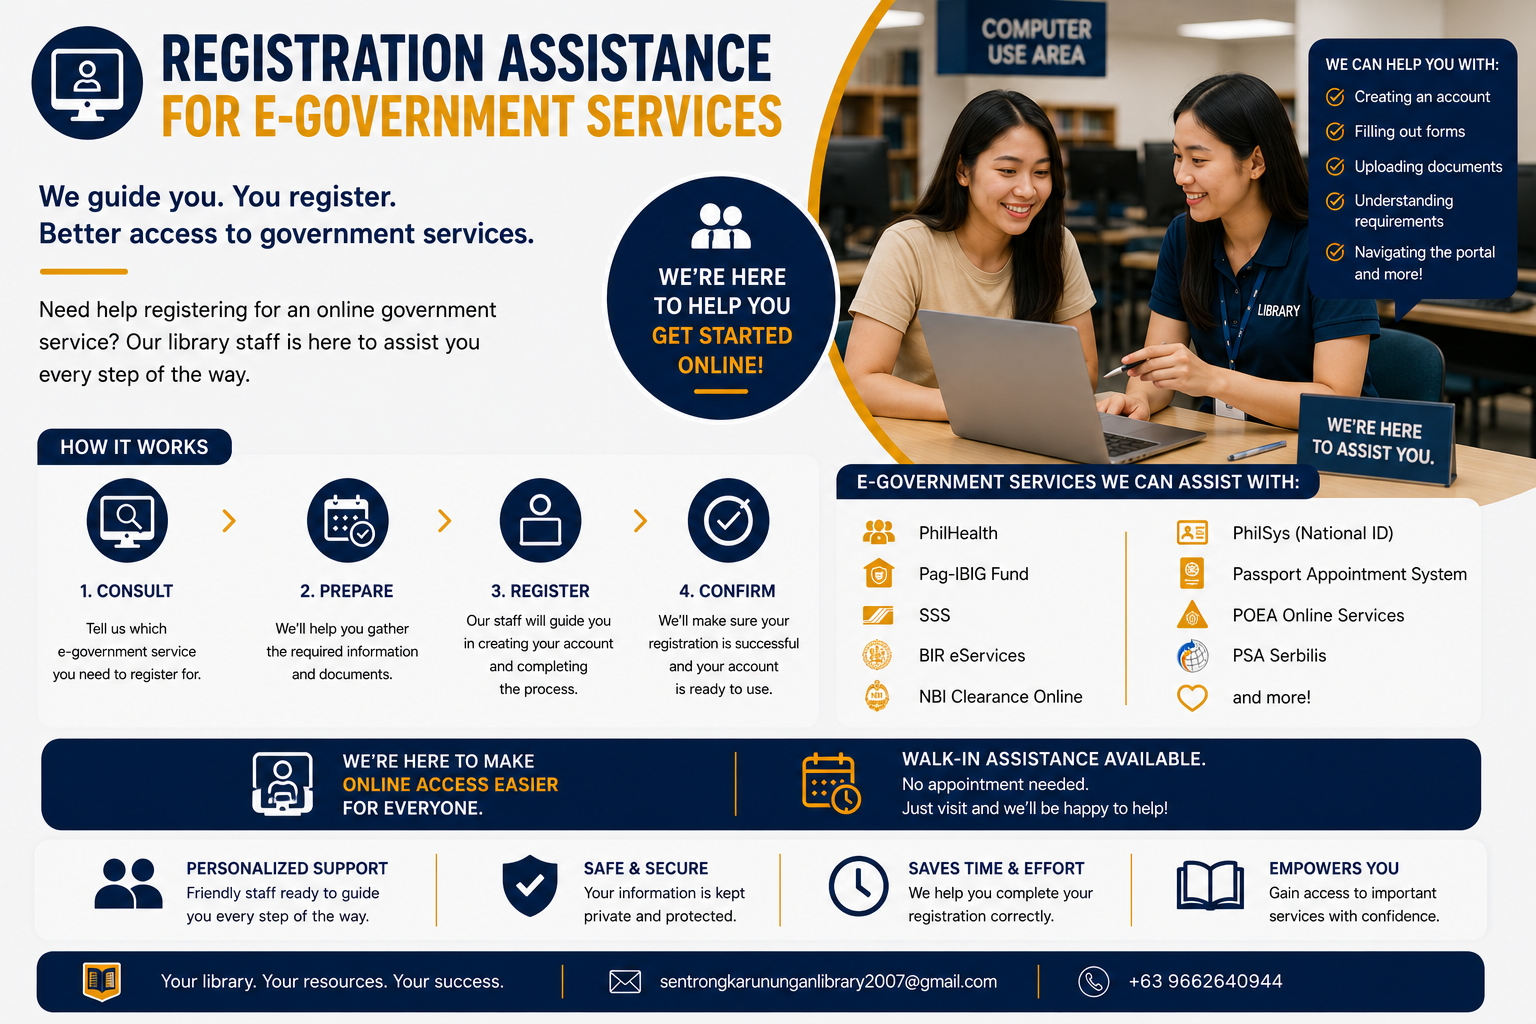
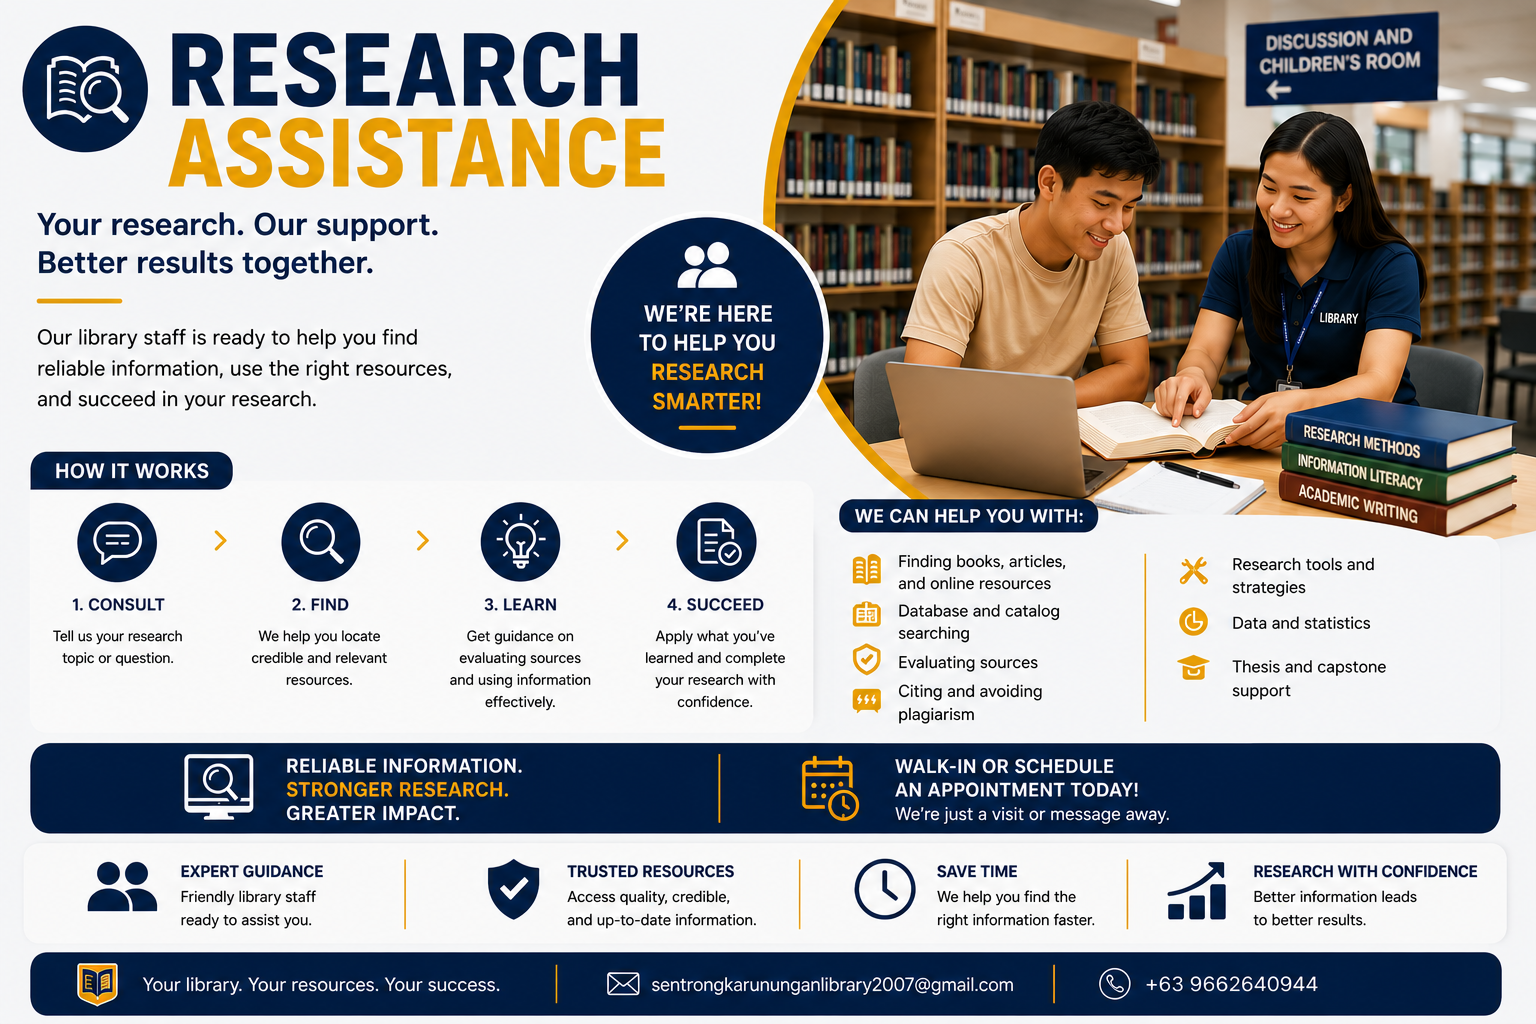
added updated

diff --git a/src/components/ServicesComponents.vue b/src/components/ServicesComponents.vue
@@ -167,7 +167,7 @@ const services = [
       'Book Reservation allows users to reserve available library materials for pickup at Sentro ng Karunungan Library.',
     image: services1,
     qrCode: qr1,
-    googleForm: 'https://forms.gle/YOUR_FORM_LINK',
+    googleForm: 'https://forms.gle/8Pv7CjuEsenUxD949',
   },
   {
     id: 2,
@@ -179,7 +179,7 @@ const services = [
       'Discussion Room Reservation is available for users who need a quiet space for study, collaboration, and group learning.',
     image: services2,
     qrCode: qr2,
-    googleForm: 'https://forms.gle/YOUR_FORM_LINK',
+    googleForm: 'https://forms.gle/71qFqBog9nXNniSL9',
   },
   {
     id: 3,
@@ -191,7 +191,7 @@ const services = [
       'Online Document Delivery Service helps researchers access digital materials such as articles, chapters, and other academic resources.',
     image: services3,
     qrCode: qr3,
-    googleForm: 'https://forms.gle/YOUR_FORM_LINK',
+    googleForm: 'https://forms.gle/R4QgNyzmC4SEDH7CA',
   },
   {
     id: 4,
@@ -203,7 +203,7 @@ const services = [
       'Research Assistance provides support in locating relevant resources, citations, and information for academic and personal research.',
     image: services4,
     qrCode: qr4,
-    googleForm: 'https://forms.gle/YOUR_FORM_LINK',
+    googleForm: 'https://forms.gle/StEARAwpw2aG9Z8Y7',
   },
   {
     id: 5,
@@ -215,43 +215,43 @@ const services = [
       'E-Government Registration Assistance supports users who need help accessing and registering for selected online government services.',
     image: services5,
     qrCode: qr5,
-    googleForm: 'https://forms.gle/YOUR_FORM_LINK',
+    googleForm: 'https://forms.gle/Yn3FfcDmgiPuHzhs8',
   },
   {
     id: 6,
-    title: 'Free Lamination Service',
-    icon: 'bi bi-card-heading',
+    title: 'Storytelling / Film Showing / Arts & Crafts Reservation',
+    icon: 'bi bi-easel-fill',
     description:
-      'Avail free lamination service for selected IDs, cards, certificates, and important documents.',
+      'Reserve library spaces for storytelling sessions, film showings, arts and crafts activities, and other educational community programs.',
     modalText:
-      'Free Lamination Service helps preserve selected personal documents, IDs, cards, and certificates.',
+      'Storytelling / Film Showing / Arts & Crafts Reservation allows schools, organizations, and community groups to reserve designated library spaces for educational, cultural, and creative activities including storytelling programs, film viewing sessions, arts workshops, and interactive learning events.',
     image: services6,
     qrCode: qr6,
-    googleForm: 'https://forms.gle/YOUR_FORM_LINK',
+    googleForm: 'https://forms.gle/cALwGPdzp1MXjgLq9',
   },
   {
     id: 7,
+    title: 'Free Lamination Service',
+    icon: 'bi bi-card-heading',
+    description:
+      'Free lamination service for IDs, educational materials, school projects, and important learning documents.',
+    modalText:
+      'Free Lamination Services help library users preserve and protect important documents such as IDs, educational materials, certificates, visual aids, and school projects through quality lamination support provided by the library.',
+    image: services7,
+    qrCode: qr7,
+    googleForm: 'https://forms.gle/C2uWpfz3bw5x3skt6',
+  },
+  {
+    id: 8,
     title: 'Free Tutorial for Children',
     icon: 'bi bi-mortarboard-fill',
     description:
       'Free learning support for children in reading, writing, counting, arts, crafts, and computer basics.',
     modalText:
       'Free Tutorial for Children supports young learners through basic reading, writing, counting, creativity, and computer literacy activities.',
-    image: services7,
-    qrCode: qr7,
-    googleForm: 'https://forms.gle/YOUR_FORM_LINK',
-  },
-  {
-    id: 8,
-    title: 'Library Tour',
-    icon: 'bi bi-building-fill',
-    description:
-      'Explore the library spaces, collections, services, and learning areas through a guided tour.',
-    modalText:
-      'Library Tour introduces visitors to the library facilities, available collections, services, and community learning spaces.',
     image: services8,
     qrCode: qr8,
-    googleForm: 'https://forms.gle/YOUR_FORM_LINK',
+    googleForm: 'https://forms.gle/3QferQsqnUrSY48u6',
   },
 ]
 

diff --git a/src/components/AppFooter.vue b/src/components/AppFooter.vue
@@ -1,7 +1,96 @@
 <script setup>
+import { ref, onMounted } from 'vue'
 import sklLogo from '@/assets/images/SKLlogo.png'
 
+
 const currentYear = new Date().getFullYear()
+
+const visitors = ref({
+  today: 0,
+  yesterday: 0,
+  last7Days: 0,
+  last30Days: 0,
+  thisMonth: 0,
+  thisYear: 0,
+  total: 0,
+})
+
+onMounted(() => {
+
+  const today = new Date().toISOString().split('T')[0]
+
+  let stats = JSON.parse(localStorage.getItem('visitorStats'))
+
+  if (!stats) {
+    stats = {
+      dates: {},
+      total: 0,
+    }
+  }
+
+  // ADD TODAY VISIT
+  stats.dates[today] = (stats.dates[today] || 0) + 1
+  stats.total += 1
+
+  localStorage.setItem(
+    'visitorStats',
+    JSON.stringify(stats)
+  )
+
+  const dates = stats.dates
+
+  // TODAY
+  visitors.value.today = dates[today] || 0
+
+  // YESTERDAY
+  const yesterdayDate = new Date()
+  yesterdayDate.setDate(yesterdayDate.getDate() - 1)
+
+  const yesterday =
+    yesterdayDate.toISOString().split('T')[0]
+
+  visitors.value.yesterday =
+    dates[yesterday] || 0
+
+  // LAST 7 / 30 DAYS
+  let last7 = 0
+  let last30 = 0
+  let monthTotal = 0
+  let yearTotal = 0
+
+  const now = new Date()
+
+  Object.entries(dates).forEach(([date, count]) => {
+
+    const d = new Date(date)
+
+    const diff =
+      (now - d) / (1000 * 60 * 60 * 24)
+
+    if (diff <= 7) last7 += count
+
+    if (diff <= 30) last30 += count
+
+    if (
+      d.getMonth() === now.getMonth() &&
+      d.getFullYear() === now.getFullYear()
+    ) {
+      monthTotal += count
+    }
+
+    if (
+      d.getFullYear() === now.getFullYear()
+    ) {
+      yearTotal += count
+    }
+  })
+
+  visitors.value.last7Days = last7
+  visitors.value.last30Days = last30
+  visitors.value.thisMonth = monthTotal
+  visitors.value.thisYear = yearTotal
+  visitors.value.total = stats.total
+})
 </script>
 
 <template>
@@ -49,15 +138,17 @@ const currentYear = new Date().getFullYear()
           </div>
           <!-- VISITORS -->
           <div class="col-lg-3">
-            <div class="footer-title">Offsite Visitors Count</div>
+            <div class="footer-title">
+              Offsite Visitors Count
+            </div>
             <ul class="visitors p-0 m-0">
-              <li>📘 Users Today: <strong>14</strong></li>
-              <li>📘 Users Yesterday: <strong>21</strong></li>
-              <li>📘 Users Last 7 Days: <strong>104</strong></li>
-              <li>📘 Users Last 30 Days: <strong>386</strong></li>
-              <li>📘 Users This Month: <strong>752</strong></li>
-              <li>📘 Users This Year: <strong>5,912</strong></li>
-              <li>📘 Total Users: <strong>28,502</strong></li>
+              <li>📘 Users Today: <strong>{{ visitors.today }}</strong></li>
+              <li>📘 Users Yesterday: <strong>{{ visitors.yesterday }}</strong></li>
+              <li>📘 Users Last 7 Days: <strong>{{ visitors.last7Days }}</strong></li>
+              <li>📘 Users Last 30 Days: <strong>{{ visitors.last30Days }}</strong></li>
+              <li>📘 Users This Month: <strong>{{ visitors.thisMonth }}</strong></li>
+              <li>📘 Users This Year: <strong>{{ visitors.thisYear }}</strong></li>
+              <li>📘 Total Users: <strong>{{ visitors.total }}</strong></li>
             </ul>
           </div>
         </div>

diff --git a/src/components/FeaturedSection.vue b/src/components/FeaturedSection.vue
@@ -15,10 +15,13 @@ import col4 from '@/assets/images/col4.png'
           <div class="section-title-top">Collections</div>
           <h2 class="section-title text-uppercase">Featured Collections</h2>
         </div>
-        <a href="#" class="collections-link">
-          View all collections
-          <i class="bi bi-arrow-right"></i>
-        </a>
+          <RouterLink
+            to="/resources?section=opac"
+            class="collections-link"
+          >
+            View all Collections
+            <i class="bi bi-arrow-right"></i>
+          </RouterLink>
       </div>
       <!-- GRID -->
       <div class="collections-grid">

diff --git a/src/components/ResourcesSection.vue b/src/components/ResourcesSection.vue
@@ -99,14 +99,13 @@ function scrollResources(direction) {
         </div>
 
         <div class="resources-right-controls">
-          <a
-            href="https://eportal.nlp.gov.ph/eresources"
-            target="_blank"
+          <RouterLink
+            to="/resources?section=eresources"
             class="collections-link"
           >
             View all Collections
             <i class="bi bi-arrow-right"></i>
-          </a>
+          </RouterLink>
         </div>
       </div>
 
